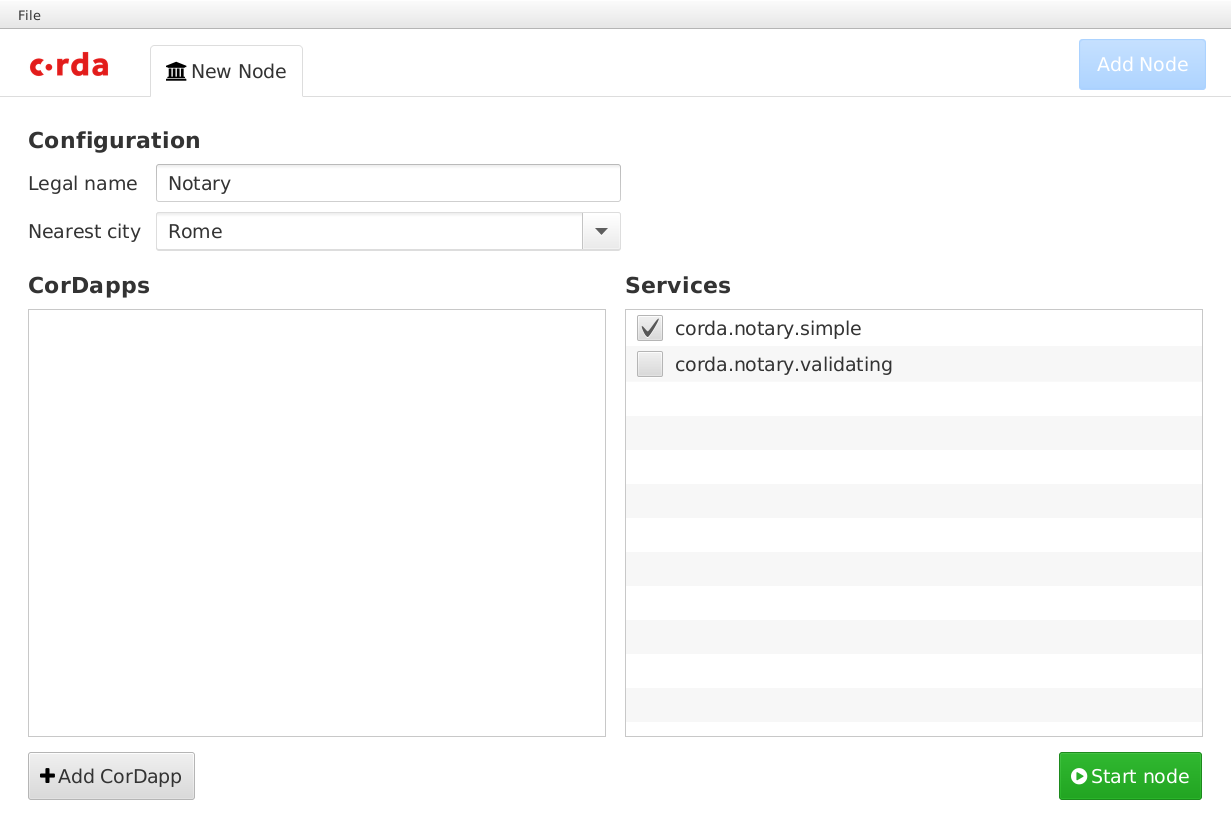
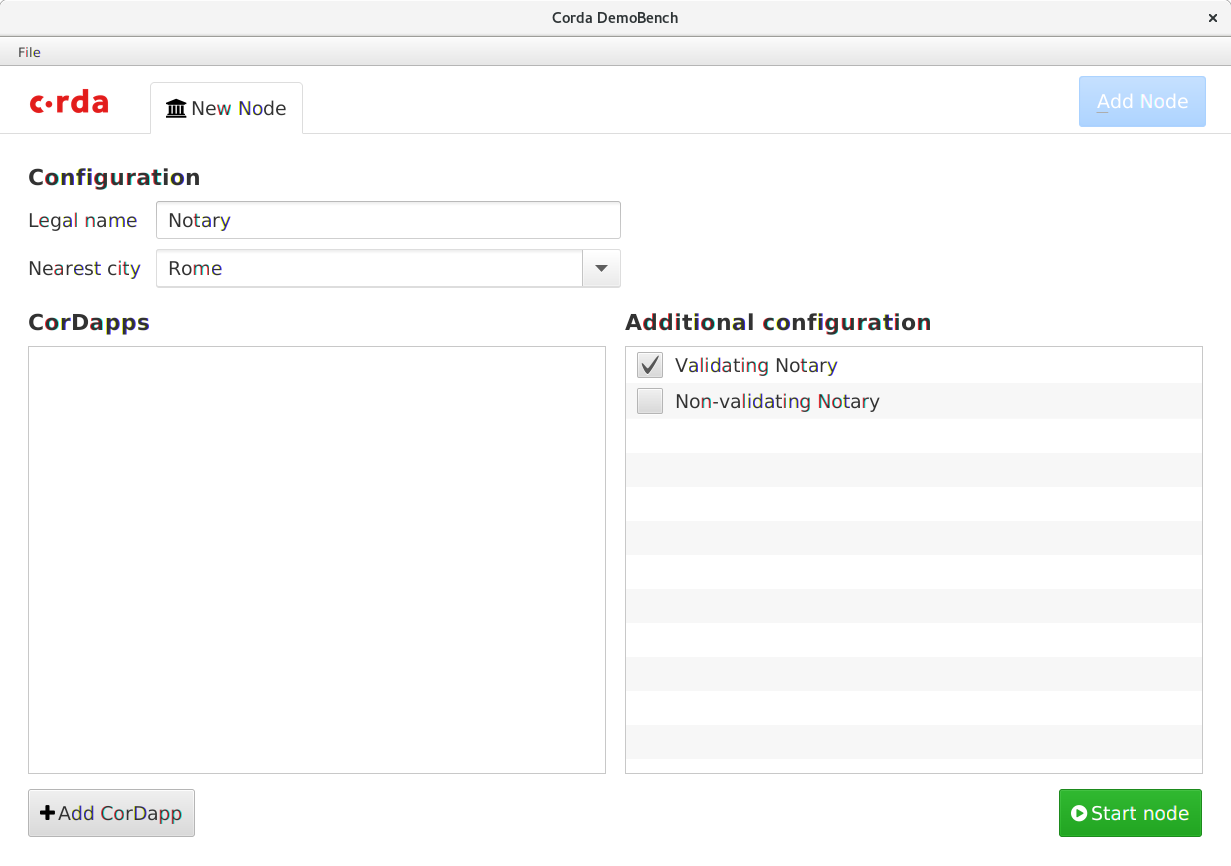
Improve NodeTabView in DemoBench (#1639)
* Improve NodeTabView in DemoBench

Reflect recent changes with advertised services removal.

* Force selection of only one notary

* Update screenshots

diff --git a/tools/demobench/src/main/kotlin/net/corda/demobench/views/NodeTabView.kt b/tools/demobench/src/main/kotlin/net/corda/demobench/views/NodeTabView.kt
@@ -5,6 +5,7 @@ import de.jensd.fx.glyphs.fontawesome.FontAwesomeIconView
 import de.jensd.fx.glyphs.fontawesome.utils.FontAwesomeIconFactory
 import javafx.application.Platform
 import javafx.beans.InvalidationListener
+import javafx.collections.ListChangeListener
 import javafx.geometry.Pos
 import javafx.scene.control.ComboBox
 import javafx.scene.image.Image
@@ -61,7 +62,7 @@ class NodeTabView : Fragment() {
     private val chooser = FileChooser()
 
     private val model = NodeDataModel()
-    private val availableServices: List<String> = if (nodeController.hasNetworkMap()) serviceController.services else serviceController.notaries
+    private val availableServices: List<String> = if (nodeController.hasNetworkMap()) serviceController.issuers.keys.toList() else serviceController.notaries.keys.toList()
 
     private val nodeTerminalView = find<NodeTerminalView>()
     private val nodeConfigView = stackpane {
@@ -109,7 +110,7 @@ class NodeTabView : Fragment() {
                     }
                 }
 
-                fieldset("Services") {
+                fieldset("Additional configuration") {
                     styleClass.addAll("services-panel")
 
                     val servicesList = CheckListView(availableServices.observable()).apply {
@@ -117,6 +118,17 @@ class NodeTabView : Fragment() {
                         model.item.extraServices.set(checkModel.checkedItems)
                         if (!nodeController.hasNetworkMap()) {
                             checkModel.check(0)
+                            checkModel.checkedItems.addListener(ListChangeListener { change ->
+                                while (change.next()) {
+                                    if (change.wasAdded()) {
+                                        val item = change.addedSubList.last()
+                                        val idx = checkModel.getItemIndex(item)
+                                        checkModel.checkedIndices.forEach {
+                                            if (it != idx) checkModel.clearCheck(it)
+                                        }
+                                    }
+                                }
+                            })
                         }
                     }
                     add(servicesList)

diff --git a/tools/demobench/src/main/kotlin/net/corda/demobench/model/ServiceController.kt b/tools/demobench/src/main/kotlin/net/corda/demobench/model/ServiceController.kt
@@ -8,31 +8,37 @@ import java.util.logging.Level
 
 class ServiceController(resourceName: String = "/services.conf") : Controller() {
 
-    val services: List<String> = loadConf(resources.url(resourceName))
+    val services: Map<String, String> = loadConf(resources.url(resourceName))
 
-    val notaries: List<String> = services.filter { it.startsWith("corda.notary.") }.toList()
+    val notaries: Map<String, String> = services.filter { it.value.startsWith("corda.notary.") }
+
+    val issuers: Map<String, String> = services.filter { it.value.startsWith("corda.issuer.") }
 
     /*
      * Load our list of known extra Corda services.
      */
-    private fun loadConf(url: URL?): List<String> {
+    private fun loadConf(url: URL?): Map<String, String> {
         return if (url == null) {
-            emptyList()
+            emptyMap()
         } else {
             try {
-                val set = sortedSetOf<String>()
+                val map = linkedMapOf<String, String>()
                 InputStreamReader(url.openStream()).useLines { sq ->
                     sq.forEach { line ->
-                        val service = line.trim()
-                        set.add(service)
-
-                        log.info("Supports: $service")
+                        val service = line.split(":").map { it.trim() }
+                        if (service.size != 2) {
+                            log.warning("Encountered corrupted line '$line' while reading services from config: $url")
+                        }
+                        else {
+                            map[service[1]] = service[0]
+                            log.info("Supports: $service")
+                        }
                     }
+                    map
                 }
-                set.toList()
             } catch (e: IOException) {
                 log.log(Level.SEVERE, "Failed to load $url: ${e.message}", e)
-                emptyList<String>()
+                emptyMap<String, String>()
             }
         }
     }

diff --git a/tools/demobench/src/main/kotlin/net/corda/demobench/model/NodeController.kt b/tools/demobench/src/main/kotlin/net/corda/demobench/model/NodeController.kt
@@ -24,6 +24,7 @@ class NodeController(check: atRuntime = ::checkExists) : Controller() {
 
     private val jvm by inject<JVMConfig>()
     private val pluginController by inject<PluginController>()
+    private val serviceController by inject<ServiceController>()
 
     private var baseDir: Path = baseDirFor(ManagementFactory.getRuntimeMXBean().startTime)
     private val cordaPath: Path = jvm.applicationDir.resolve("corda").resolve("corda.jar")
@@ -63,7 +64,7 @@ class NodeController(check: atRuntime = ::checkExists) : Controller() {
                 nodeData.rpcPort.value,
                 nodeData.webPort.value,
                 nodeData.h2Port.value,
-                nodeData.extraServices.toMutableList()
+                nodeData.extraServices.map { serviceController.services[it]!! }.toMutableList()
         )
 
         if (nodes.putIfAbsent(config.key, config) != null) {

diff --git a/node/src/main/kotlin/net/corda/node/internal/NodeStartup.kt b/node/src/main/kotlin/net/corda/node/internal/NodeStartup.kt
@@ -260,8 +260,8 @@ open class NodeStartup(val args: Array<String>) {
     }
 
     private fun printPluginsAndServices(node: Node) {
-        node.configuration.extraAdvertisedServiceIds.let {
-            if (it.isNotEmpty()) Node.printBasicNodeInfo("Providing network services", it.joinToString())
+        node.configuration.extraAdvertisedServiceIds.filter { it.startsWith("corda.notary.") || it.startsWith("corda.network_map") }.let {
+            if (it.isNotEmpty()) Node.printBasicNodeInfo("Providing additional services", it.joinToString())
         }
         Node.printBasicNodeInfo("Loaded CorDapps", node.cordappProvider.cordapps.map { it.name }.joinToString())
         val plugins = node.pluginRegistries

diff --git a/tools/demobench/src/test/kotlin/net/corda/demobench/model/ServiceControllerTest.kt b/tools/demobench/src/test/kotlin/net/corda/demobench/model/ServiceControllerTest.kt
@@ -21,14 +21,14 @@ class ServiceControllerTest {
     fun `test duplicates`() {
         val controller = ServiceController("/duplicate-services.conf")
         assertNotNull(controller.services)
-        assertEquals(listOf("corda.example"), controller.services)
+        assertEquals(listOf("corda.example"), controller.services.map { it.value })
     }
 
     @Test
     fun `test notaries`() {
         val controller = ServiceController("/notary-services.conf")
         assertNotNull(controller.notaries)
-        assertEquals(listOf("corda.notary.simple"), controller.notaries)
+        assertEquals(listOf("corda.notary.simple"), controller.notaries.map { it.value })
     }
 
     @Test

diff --git a/tools/demobench/src/main/kotlin/net/corda/demobench/model/InstallFactory.kt b/tools/demobench/src/main/kotlin/net/corda/demobench/model/InstallFactory.kt
@@ -54,7 +54,7 @@ class InstallFactory : Controller() {
     }
 
     private fun Config.parseExtraServices(path: String): MutableList<String> {
-        val services = serviceController.services.toSortedSet() + ServiceInfo(ServiceType.networkMap).toString()
+        val services = serviceController.services.values.toSortedSet() + ServiceInfo(ServiceType.networkMap).toString()
         return this.getStringList(path)
                 .filter { !it.isNullOrEmpty() }
                 .map { svc ->
